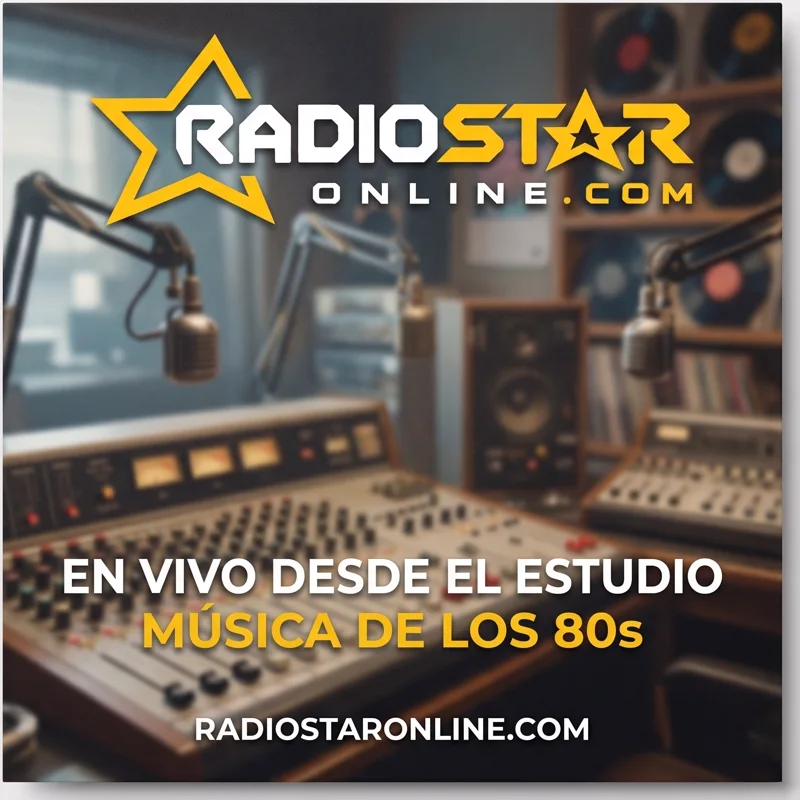
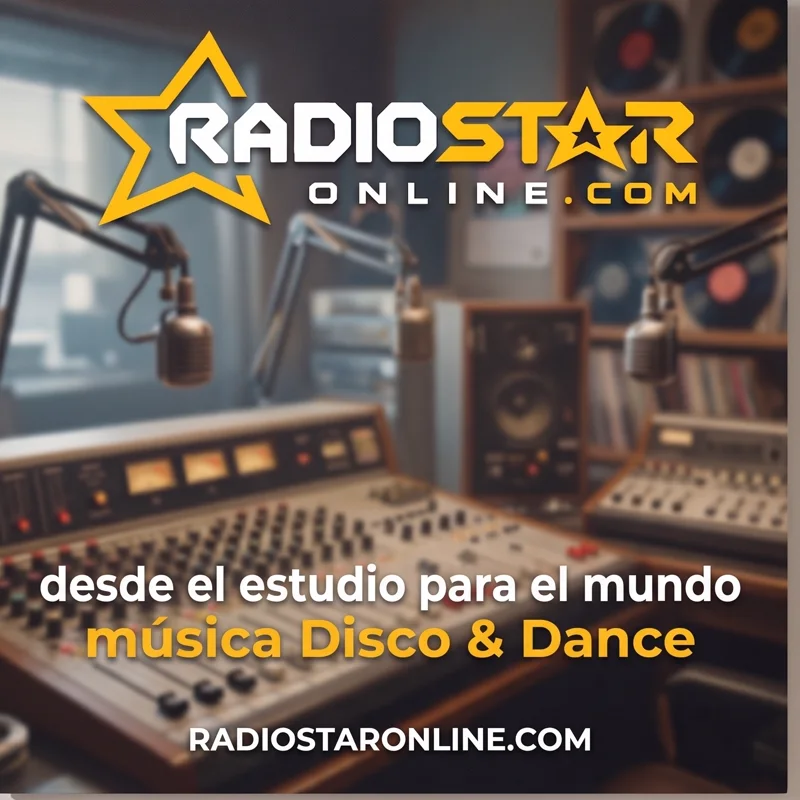
primer version

diff --git a/assets/js/app.js b/assets/js/app.js
@@ -20,10 +20,17 @@
   // Lo que se anuncia mientras hay alguien al aire y el emisor no manda título.
   var EN_DIRECTO = 'Transmitiendo desde nuestro estudio';
 
-  // Carátula para cuando emite el estudio y no la rotación del servidor. Los
-  // directos no traen imagen propia, y dejar el hueco gris parecía una avería.
-  // Es una pieza de marca, no una foto: se enseña en color (ver `no-filtro`).
-  var ARTE_ESTUDIO = 'assets/img/estudio.webp';
+  /* Carátula para cuando emite el estudio y no la rotación del servidor. Los
+     directos no traen imagen propia, y dejar el hueco gris parecía una avería.
+     Es una pieza de marca, no una foto: se enseña en color (ver `no-filtro`).
+
+     El ?v= es un contador de versión, como el de la hoja de estilos: al
+     cambiar la imagen hay que subirlo, o los navegadores que ya la tengan
+     guardada seguirán enseñando la anterior después del despliegue.
+
+     La imagen sale de `portada estudio.jpg` recortada y optimizada; cambiar
+     sólo ese original no actualiza nada (ver README, §2 bis). */
+  var ARTE_ESTUDIO = 'assets/img/estudio.webp?v=2';
 
   var VOL_STEPS = 10;
 

diff --git a/index.html b/index.html
@@ -690,7 +690,7 @@
   </div>
 </div>
 
-<script src="assets/js/app.js?v=19"></script>
+<script src="assets/js/app.js?v=20"></script>
 <script src="assets/js/noticias.js?v=1" defer></script>
 </body>
 </html>

diff --git a/README.md b/README.md
@@ -80,6 +80,40 @@ Sustitúyelo por el reproductor real, por ejemplo:
 
 Para HLS (`.m3u8`) hará falta hls.js en los navegadores que no lo soportan de forma nativa.
 
+### 2 bis. Imágenes derivadas: si cambias el original, hay que regenerarlas
+
+**Esto ya ha mordido una vez.** Varias imágenes y vídeos de la web no se sirven
+tal cual: son versiones recortadas y optimizadas del archivo que mandó la
+emisora. Cambiar el original **no actualiza la web**; hay que regenerar el
+derivado, subir el `?v=` si lo lleva, y volver a desplegar.
+
+| Se sirve | Sale de | Qué se le hace |
+| --- | --- | --- |
+| `estudio.webp` | `portada estudio.jpg` | quitar el marco de maqueta, 800×800 |
+| `locutor-arturo.webp` | el retrato original | recorte 3:4, 900×1200 |
+| `top-poster.jpg` | `top.mp4` | fotograma del segundo 3 |
+| `entrada.mp4` + `entrada-poster.jpg` | `video entrada.mp4` | copia sin espacios + fotograma |
+
+Los originales llegan con un marco gris de presentación alrededor (la imagen
+cuadrada va dentro, con sombra). Hay que recortarlo o la carátula sale con
+bordes. Las medidas del recorte **cambian con cada archivo**: conviene medirlas
+en lugar de reutilizar las de la vez anterior.
+
+Comandos de referencia (con ffmpeg):
+
+```sh
+# carátula del estudio: recortar el marco y optimizar
+ffmpeg -i "assets/img/portada estudio.jpg" \
+  -vf "crop=1648:1648:220:208,scale=800:800" -quality 84 assets/img/estudio.webp
+
+# póster del vídeo del ranking
+ffmpeg -ss 3 -i assets/img/top.mp4 -frames:v 1 -q:v 4 assets/img/top-poster.jpg
+```
+
+Después de regenerar `estudio.webp`, **sube el `?v=` de `ARTE_ESTUDIO`** en
+`assets/js/app.js`: sin eso, quien ya tenga la imagen guardada seguirá viendo
+la antigua aunque el despliegue sea correcto.
+
 ### 3. Las imágenes que faltan
 
 Los bloques de programas, locutores, noticias y patrocinadores llevan

diff --git a/to do.md b/to do.md
@@ -152,9 +152,6 @@ Ahora mismo hay trabajo hecho que **no está desplegado**:
 - [ ] **¿Una vez por visita o con menos frecuencia?** Ahora sale una vez por
       sesión. Si resulta pesada, se puede pasar a una vez al día cambiando
       `sessionStorage` por `localStorage` con fecha.
-- [ ] **Texto de la carátula del estudio.** `estudio.webp` dice «MÚSICA DE LOS
-      80s». Si el directo no siempre es de los 80, conviene una versión más
-      neutra, porque esa imagen sale en **cualquier** emisión desde el estudio.
 
 ---
 
@@ -177,5 +174,7 @@ Ahora mismo hay trabajo hecho que **no está desplegado**:
 - Cortinilla de bienvenida al entrar, una vez por visita y con botón de saltar.
 - Arturo Moya «Dj. Arturo Mix» («ON THE MIX») añadido a Locutores, con foto.
 - El ranking y la encuesta sustituyen a la tabla del Top 40, en su propia sección.
+- Carátula del estudio actualizada al arte nuevo («Disco & Dance»), regenerada
+  desde el original y con ?v= subido.
 - Tras votar la banda se recoge (solo el podio + tu voto) y se puede cerrar con
   la X; el cierre se recuerda por versión de ranking.
